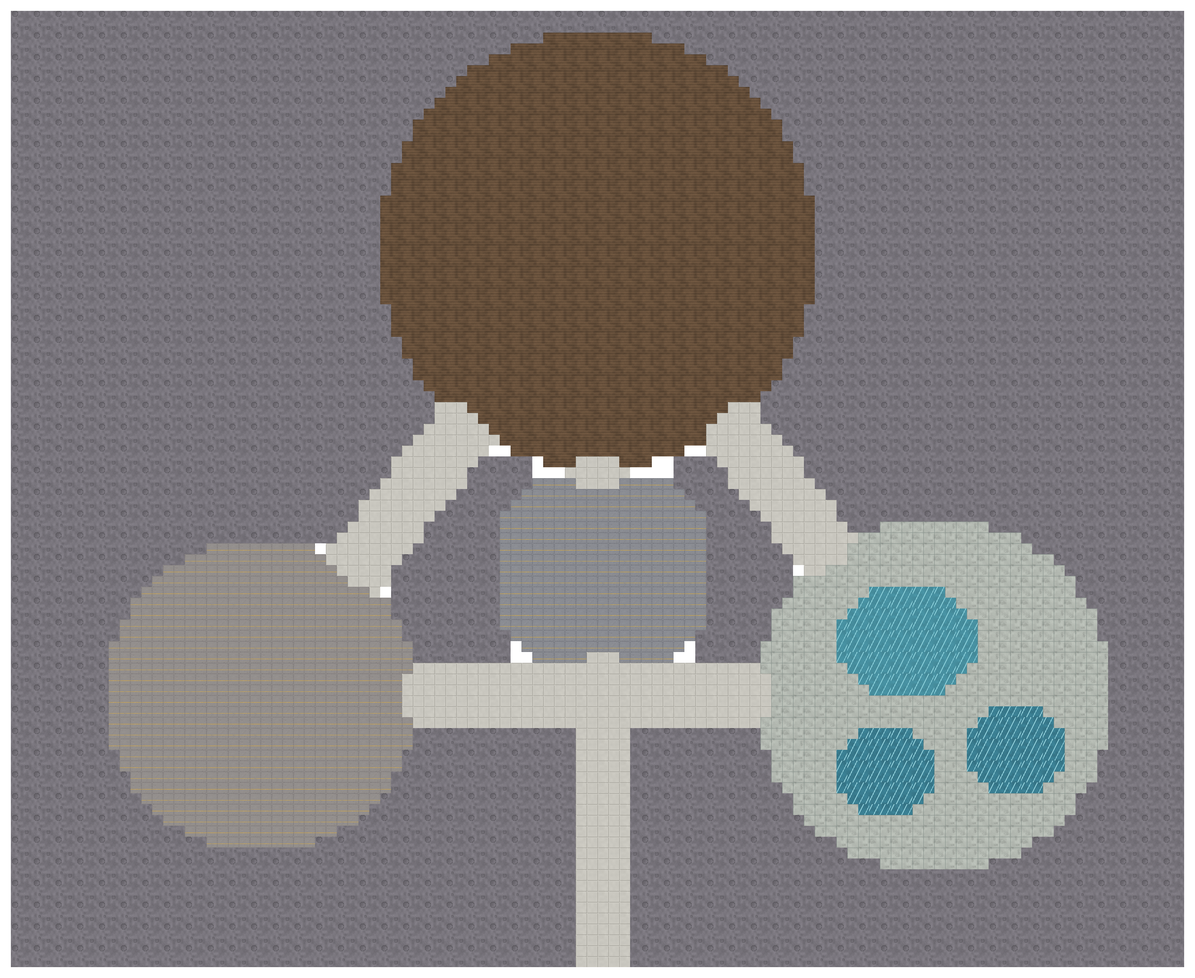
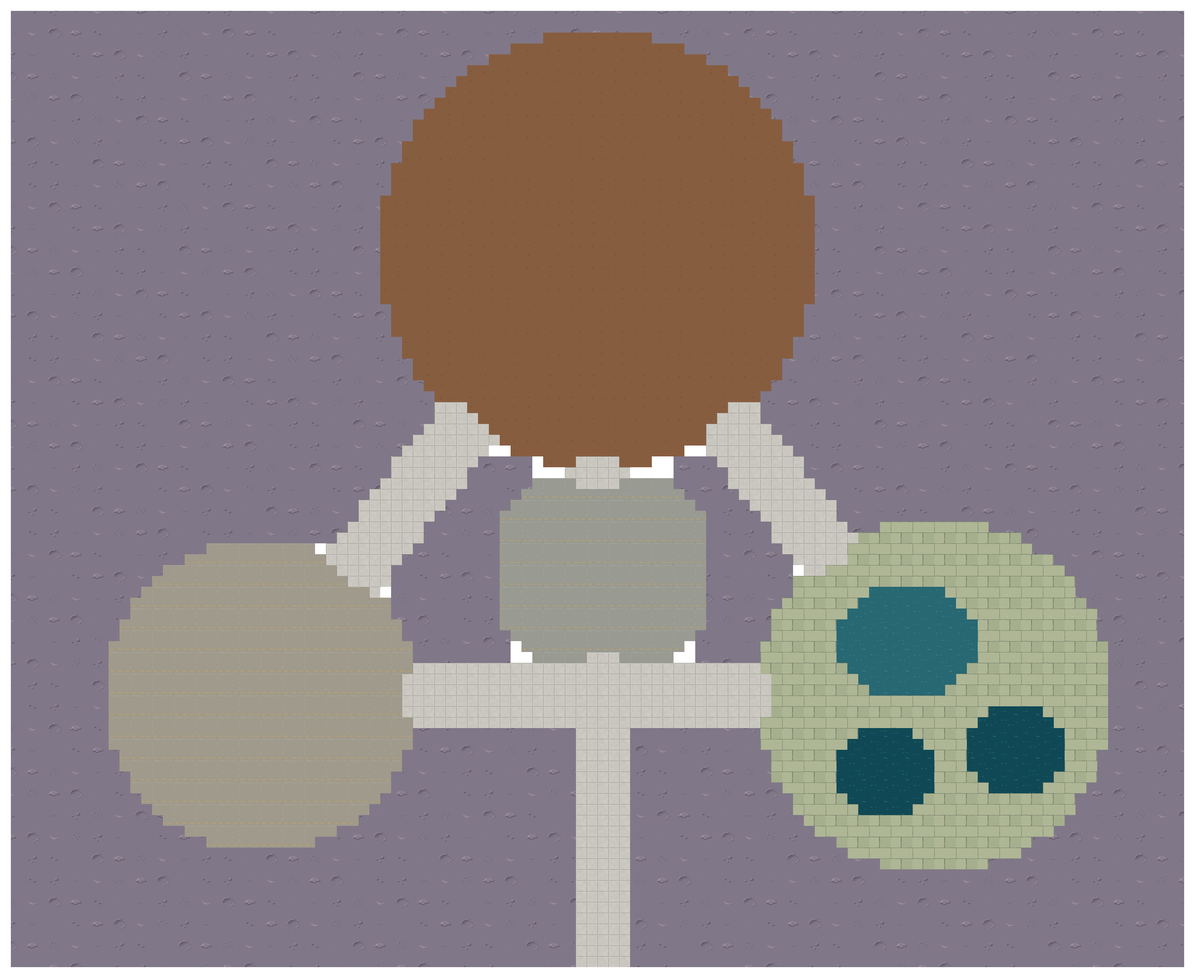
Install Agri Complex terrain and animate irrigated beds and pools

diff --git a/tools/bake_floor.py b/tools/bake_floor.py
@@ -294,8 +294,8 @@ AREA_FLOORS = {
     "bay": {"u": ("eng_floor_hangar", None), "a": ("eng_floor_pad", None), "p": ("eng_floor_plate", None), "f": ("eng_floor_tech", None), "i": ("eng_floor_hangar", None)},
     "west": {".": ("arrivals/terminal", None), "p": ("arrivals/plaza", None), "f": ("arrivals/carpet", None), "h": ("arrivals/carpet_blue", None), "u": ("arrivals/terminal", None),
              "A": ("arrivals/plaza", None), "Q": ("sp_moon", None), "V": ("eng_floor_pad", None), "g": ("arrivals/glass", None), "Y": ("arrivals/basin", None)},
-    "agri": {"Q": ("sp_moon", None), "a": ("sp_soil", None), "h": ("eng_floor_concrete", None), "f": ("eng_floor_concrete", ("c8a070", 0.15)), "s": ("sp_spa", None),
-             "u": ("sp_terminal", None), "O": ("sp_water", ("70c8d0", 0.25)), "Y": ("sp_water", None)},
+    "agri": {"Q": ("agri/moon", None), "a": ("agri/soil", None), "h": ("eng_floor_concrete", None), "f": ("eng_floor_concrete", ("c8a070", 0.15)), "s": ("agri/spa", None),
+             "u": ("sp_terminal", None), "O": ("agri/water", ("70c8d0", 0.25)), "Y": ("agri/water", None)},
     "east": {".": ("sp_plaza", None), "s": ("ea_grass", None), "h": ("ea_deck", None), "a": ("sp_soil", None), "f": ("ea_rubber", None),
              "k": ("ea_court", None), "o": ("ea_deck", None), "t": ("ea_tile", None), "e": ("eng_floor_grate", None), "u": ("sp_terminal", None),
              "A": ("sp_terminal", None)},
@@ -323,7 +323,12 @@ def bake_area(key, rows, art_dir, extras=None):
         ys, xs = Yn[m], Xn[m]
         if isinstance(kind, str):                                 # a sector material: art/lunar/<kind>.png, 2x2 tiles
             tex = np.asarray(Image.open(os.path.join(art_dir, kind + ".png")).convert("RGB"), dtype=np.float32) / 255.0
-            if kind.startswith("hotel/"):
+            if kind.startswith("agri/"):
+                # Pick one complete two-tile swatch per map block, on the native grid.
+                span = 2 * PX
+                variant = ((xs // span * 17) ^ (ys // span * 29)) % (tex.shape[1] // span)
+                col = tex[ys % span, variant * span + xs % span]
+            elif kind.startswith("hotel/"):
                 # These atlases have multiple two-tile swatches, each already on the 24px grid.
                 col = tex[ys % tex.shape[0], xs % tex.shape[1]]
             else:
